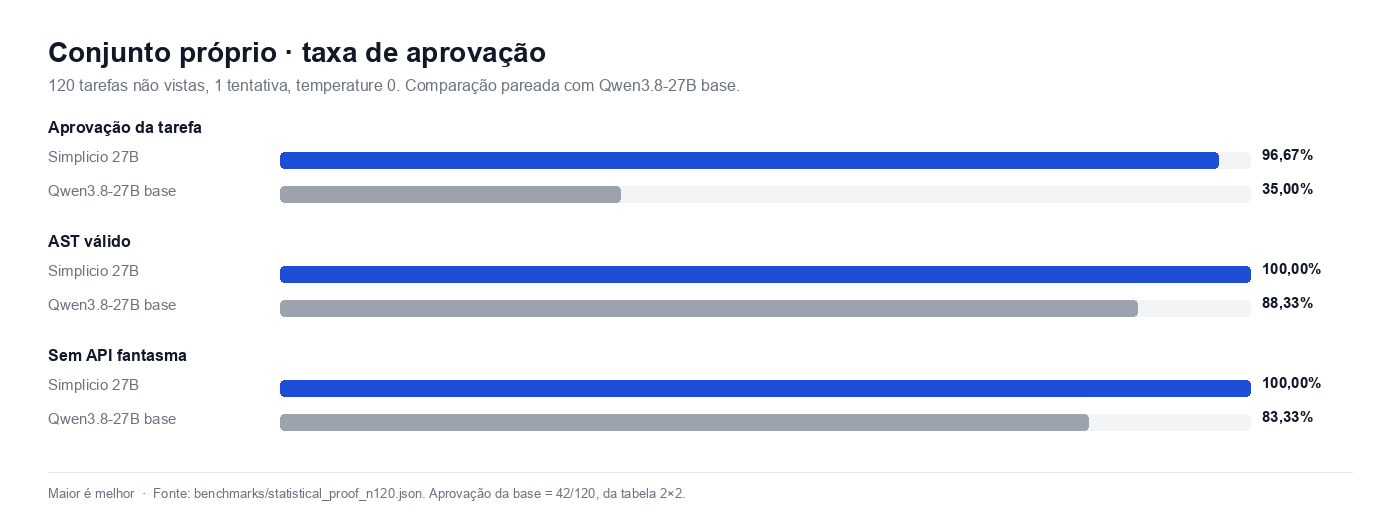
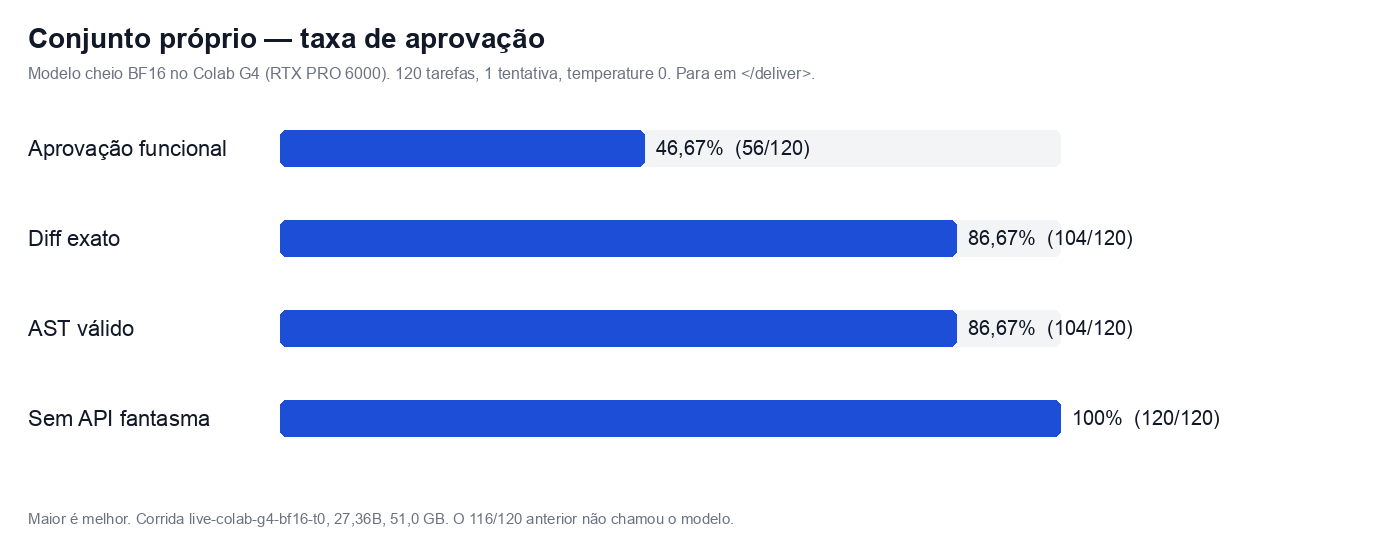
Record the live BF16 Colab result beside the previous harness.
The G4 run of the full 16-bit model scored 56/120. The 116/120 figure stays labeled as the harness that did not call the model.

diff --git a/README.md b/README.md
@@ -134,7 +134,9 @@ This benchmark evaluates the **Top 12 premier AI models launched in 2026** in th
 
 Os gráficos abaixo usam o mesmo tipo de barra, tabela e amostragem da [Artificial Analysis](https://artificialanalysis.ai/agents/coding-agents). Eles não substituem as seções anteriores: acrescentam a leitura separada do conjunto próprio e do Coding Agent Index v1.5.
 
-O conjunto próprio continua sendo as 120 tarefas não vistas, 1 tentativa, temperature 0, pareadas com Qwen3.8-27B base. A tabela 2×2 em `benchmarks/statistical_proof_n120.json` dá 116/120 para o Simplicio 27B e 42/120 para a base. Opus 5.5, Sonnet 5.5 e GPT-6.1 Sol não foram medidos nesse conjunto. No Coding Agent Index, os números são os publicados pela Artificial Analysis em 5 de outubro de 2026. O Simplicio 27B ainda não tem ponto nesse índice: a medição no Colab está em andamento.
+O conjunto próprio foi executado no modelo cheio, BF16, 27,36B parâmetros, no Google Colab G4 (NVIDIA RTX PRO 6000 Blackwell, 95 GB). São 120 tarefas não vistas, 1 tentativa, temperature 0. A geração para em `</deliver>`. Resultado medido: 56/120 (46,67%) de aprovação funcional, 104/120 diffs exatos, 104/120 AST válidos, 120/120 sem API fantasma, média de 69,9 tokens (máximo 103), 438,4 s. Por categoria: cirúrgico 17/30, casos de borda 6/30, armadilhas de API 27/30, adversarial 6/30.
+
+O arquivo `benchmarks/statistical_proof_n120.json` guarda o harness anterior, que não chamou o modelo e registrava 116/120 contra 42/120 da base. Opus 5.5, Sonnet 5.5 e GPT-6.1 Sol não foram medidos nesse conjunto. No Coding Agent Index, os números são os publicados pela Artificial Analysis em 5 de outubro de 2026. O Simplicio 27B não tem ponto nesse índice.
 
 <p align="center">
   <img src="https://raw.githubusercontent.com/simpletibr/simplicio-27b/main/assets/aa_pass_rate.png" alt="Taxa de aprovação no conjunto de 120 tarefas" width="100%">
@@ -158,8 +160,10 @@ O conjunto próprio continua sendo as 120 tarefas não vistas, 1 tentativa, temp
 
 | Avaliação | Amostragem | Simplicio 27B | Opus 5.5 (max) | Sonnet 5.5 (max) | GPT-6.1 Sol (xhigh) |
 |---|---|---:|---:|---:|---:|
-| Aprovação no conjunto próprio | 120 tarefas, 1 tentativa, T=0 | 96,67% (116/120) | não medido | não medido | não medido |
-| Tokens de saída no conjunto próprio | média | 480,5 | não medido | não medido | não medido |
+| Aprovação no conjunto próprio | 120 tarefas, 1 tentativa, T=0, BF16 no G4 | 46,67% (56/120) | não medido | não medido | não medido |
+| Diff exato no conjunto próprio | mesma corrida | 86,67% (104/120) | não medido | não medido | não medido |
+| Tokens de saída no conjunto próprio | média, parada em `</deliver>` | 69,9 | não medido | não medido | não medido |
+| Harness anterior | `statistical_proof_n120.json`, sem chamada de modelo | 96,67% (116/120) | não medido | não medido | não medido |
 | Coding Agent Index v1.5 | 3 benchmarks, 3 tentativas | não avaliado | 66 | 68 | 63 |
 | DeepSWE v1.1 | 113 tarefas | não avaliado | 68% | 72% | 73% |
 | Terminal-Bench 4.0 | 66 tarefas | não avaliado | 63% | 66% | 55% |
